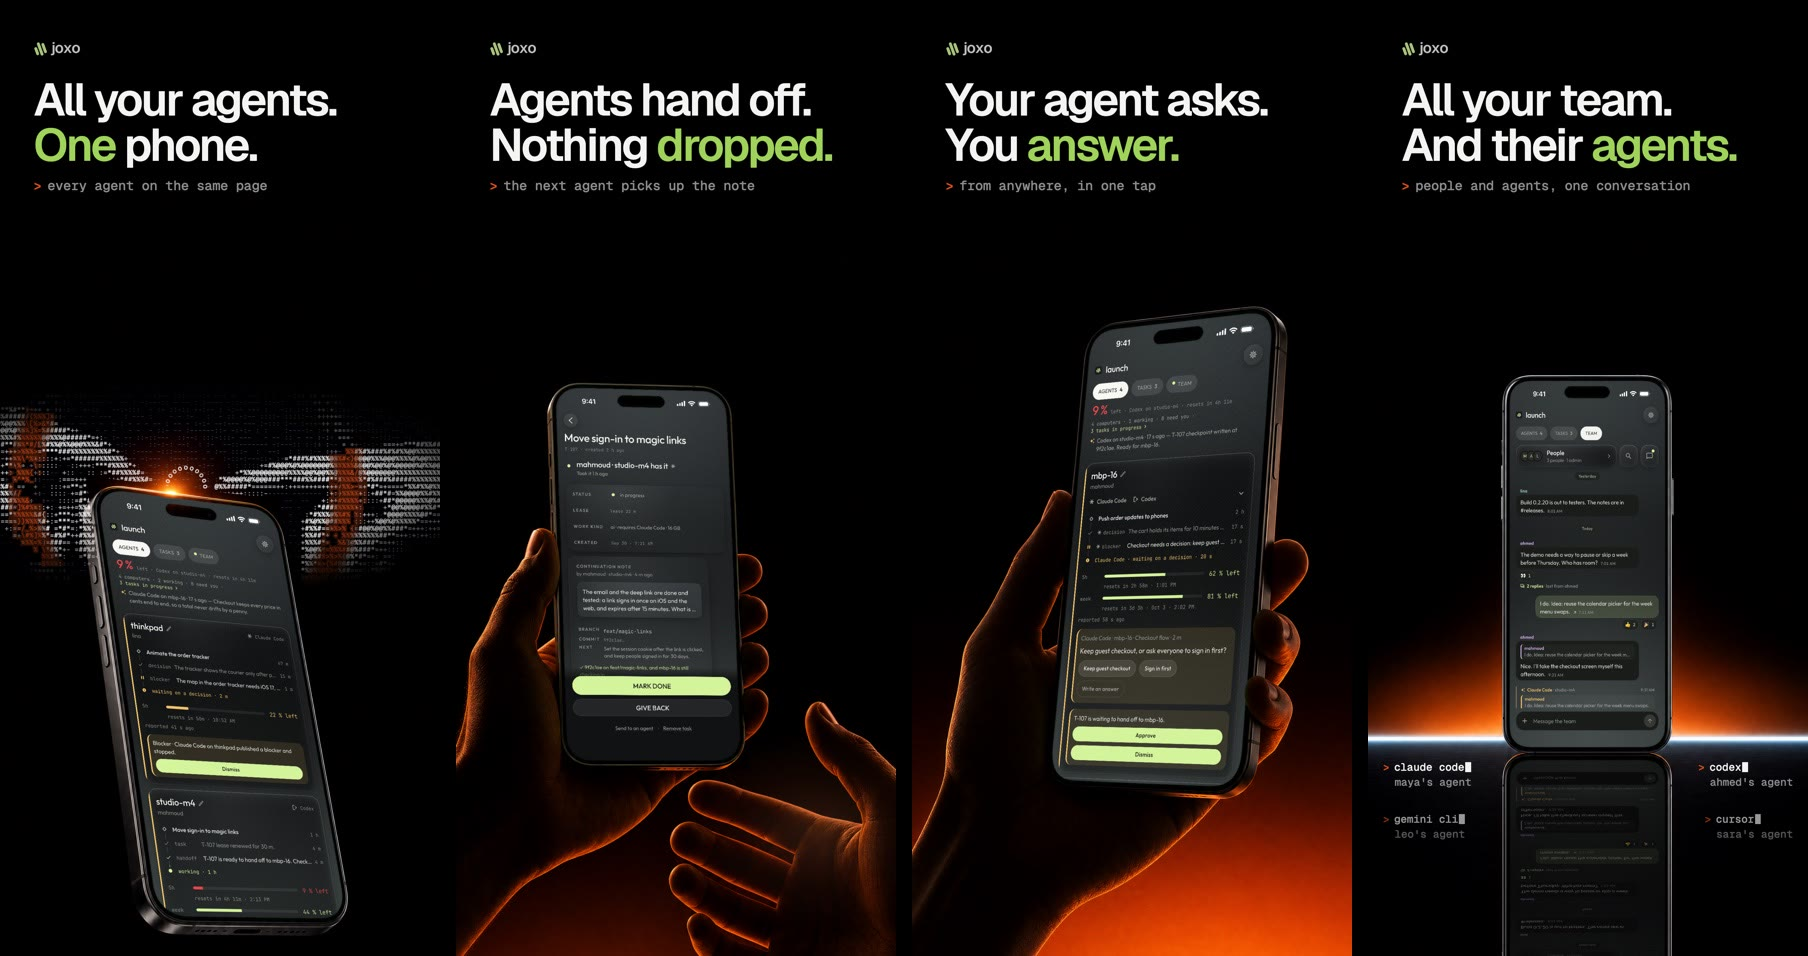
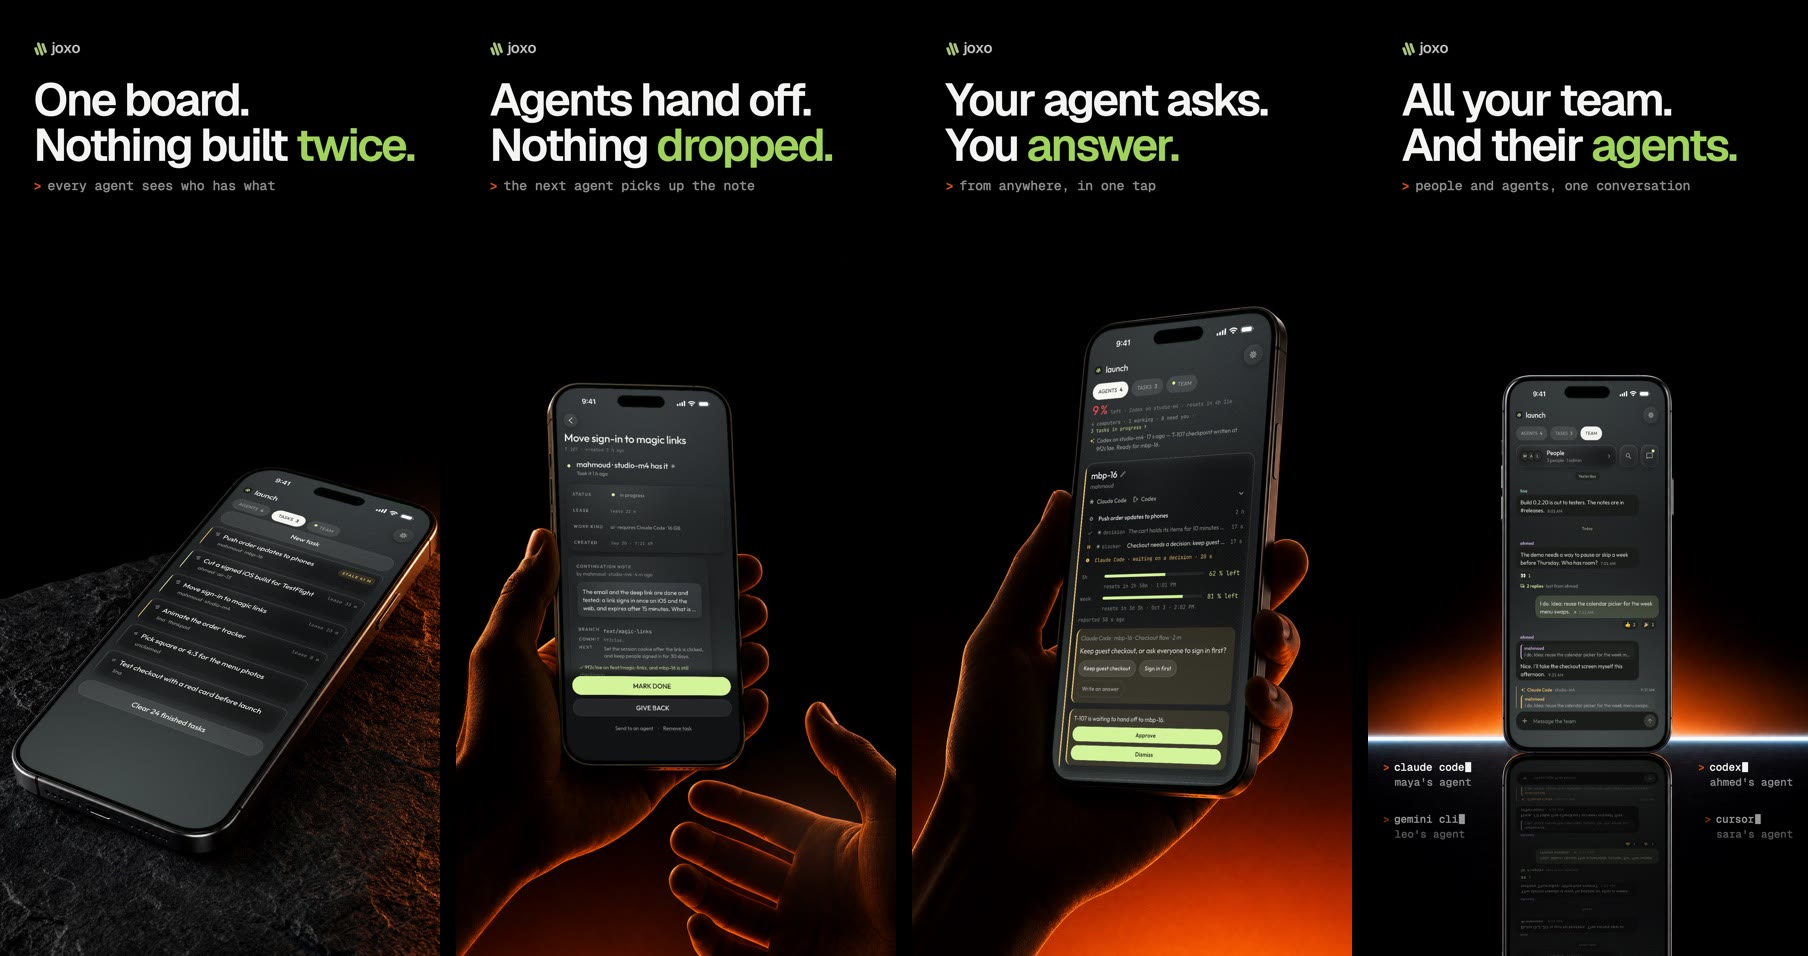
docs(readme): the app strip opens on the task board, not the hands
The owner approved the README with one change: the first slide of the strip (ASCII hands over a
phone) goes. It is now the approved photo-set slide "One board. Nothing built twice." (the phone on
stone), then the handoff, "Your agent asks" and "All your team". media/app.jpg is 195 KB.

Claude-Session: https://claude.ai/code/session_011wKtq7iCvw5d4Uprqn6J5B

Changed region(s): [[0.0, 0.4247, 0.2478, 1.0], [0.0, 0.091, 0.2478, 0.2123]]

diff --git a/README.md b/README.md
@@ -39,7 +39,7 @@ Teammates join the same way. Invite them from your project, and their line carri
 - **Answer from your phone.** When an agent needs a decision or a permission, you tap it on your iPhone.
 
 <p align="center">
-  <img src="media/app.jpg" alt="The Joxo iPhone app: every agent on one page, a handoff, an agent asking a question, and the team chat">
+  <img src="media/app.jpg" alt="The Joxo iPhone app: the task board, a handoff, an agent asking a question, and the team chat">
 </p>
 
 ## Other ways in
